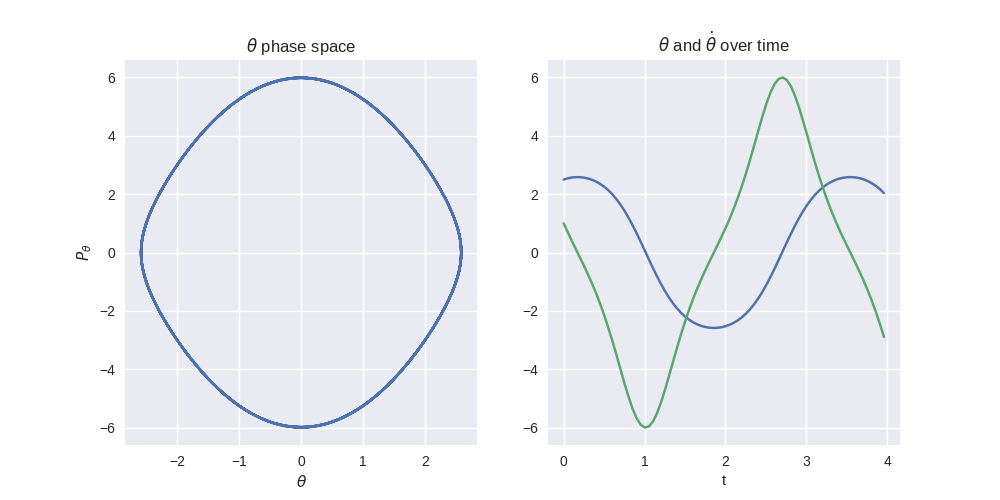
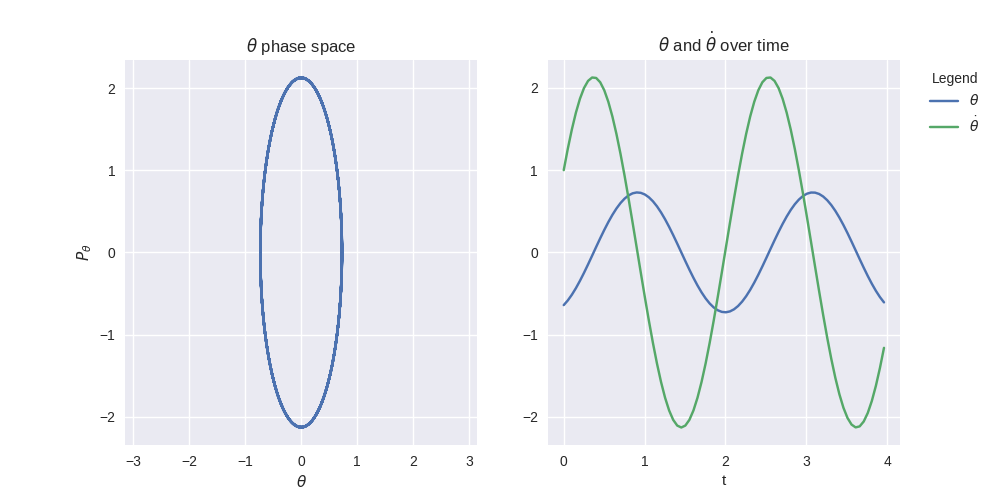
fixed phase space ranges (theta from -pi to pi). added phase space explorer script. fixed figures

diff --git a/ConstrainedPointMass/phasespace.py b/ConstrainedPointMass/phasespace.py
@@ -1,0 +1,69 @@
+import matplotlib.pyplot as plt
+from matplotlib.animation import FuncAnimation
+from scipy.integrate import odeint
+import numpy as np
+
+'''
+Phase space exploration
+'''
+
+#sets of parameters & definitions
+params1 = {"R":1, "g":9.8, "m":1, "init_theta": [2.5,1], "init_phi": [0,1], "color": "blue"}
+params2 = {"R":1, "g":9.8, "m":1, "init_theta": [2.5,1], "init_phi": [0,5], "color": "green"}
+params3 = {"R":1, "g":9.8, "m":1, "init_theta": [2.5,1], "init_phi": [0,10], "color": "red"}
+params4 = {"R":1, "g":9.8, "m":1, "init_theta": [1.5,1], "init_phi": [0,1], "color": "cyan"}
+params5 = {"R":1, "g":9.8, "m":1, "init_theta": [2.5,4], "init_phi": [0,1], "color": "magenta"}
+params5 = {"R":1, "g":9.8, "m":1, "init_theta": [2.5,-3], "init_phi": [0,1], "color": "yellow"}
+params6 = {"R":5, "g":9.8, "m":1, "init_theta": [2.5,1], "init_phi": [0,1], "color": "black"}
+params7 = {"R":1, "g":9.8, "m":5, "init_theta": [2.5,1], "init_phi": [0,1], "color": "brown"}
+
+paramstot = {1:params1, 2:params2, 3:params3, 4:params4, 5:params5, 6:params6, 7:params7}
+
+t = np.linspace(0,20,400)
+
+#equations of motion: r=R fixed, phi = phi_0 + w * t and
+def equation_theta(state, t, params):
+    theta = np.mod(state[0], 2 * np.pi) - np.pi
+    thetadot = state[1]
+    dtheta = thetadot
+    dthetadot = -(params["g"] / params["R"]) * np.sin(theta) + (params["init_phi"][1] ** 2) / 2 * np.sin(2*theta)
+    return [dtheta,dthetadot]
+
+
+###### phase space #######
+plt.style.use('seaborn')
+
+fig, ax= plt.subplots()
+
+fig.suptitle(r"$\theta$ phase space")
+ax.set_xlabel(r"$\theta$")
+ax.set_ylabel(r"$P_\theta$")
+ax.set_xlim(-np.pi , np.pi)
+
+
+i = 1
+for params in paramstot.values():
+    state = odeint(equation_theta, params["init_theta"], t, args = (params,))
+    theta = np.mod(state[:,0], 2*np.pi) - np.pi
+    thetadot = state[:,1]
+    ax.plot(theta, 2 * params["m"] * params["R"] * thetadot, color = params["color"], label = "params" + str(i))
+    i += 1
+
+ax.legend(title='Legend',loc='best')
+
+figfile = f"./ConstrainedPointMass/PhaseSpacesExpl-{len(params)}params.png"
+fig.savefig(figfile, facecolor='w', edgecolor='w',format='png')
+
+plt.show()
+
+
+
+
+
+
+
+
+
+
+
+#

diff --git a/ConstrainedPointMass/mechanics.py b/ConstrainedPointMass/mechanics.py
@@ -25,7 +25,7 @@ t = np.linspace(0,20,400)
 
 #equations of motion: r=R fixed, phi = phi_0 + w * t and
 def equation_theta(state, t, g, R, w):
-    theta = state[0]
+    theta = np.mod(state[0], 2 * np.pi) - np.pi # theta ranges from -pi to pi
     thetadot = state[1]
     dtheta = thetadot
     dthetadot = -(g/R) * np.sin(theta) + (w ** 2) / 2 * np.sin(2*theta)
@@ -33,7 +33,7 @@ def equation_theta(state, t, g, R, w):
 
 state = odeint(equation_theta, init_theta, t, args = (g,R,w))
 
-theta = state[:,0]
+theta = np.mod(state[:,0], 2 * np.pi) - np.pi
 thetadot = state[:,1]
 
 ###### phase space #######
@@ -42,10 +42,9 @@ fig, (ax1, ax2) = plt.subplots(1,2, figsize=(10, 5), dpi=100)
 ax1.set_title(r"$\theta$ phase space")
 ax1.set_xlabel(r"$\theta$")
 ax1.set_ylabel(r"$P_\theta$")
+ax1.set_xlim(-np.pi, np.pi) # theta ranges from -pi to pi
 ax2.set_title(r"$\theta$ and $\dot{\theta}$ over time")
 ax2.set_xlabel("t")
-
-ax2.legend(loc = "best")
 
 ax1.plot(theta, m * R**2 * thetadot)
 
@@ -53,6 +52,7 @@ rangeplot = int(len(t)/5)
 ax2.plot(t[0:rangeplot],theta[0:rangeplot], label  = r"$\theta$")
 ax2.plot(t[0:rangeplot],thetadot[0:rangeplot], label  = r"$\dot{\theta}$")
 
+ax2.legend(title = "Legend", loc='upper left', bbox_to_anchor = [1.05,1])
 
 ###### 3d plot ###########
 #twice as wide as it is tall
@@ -86,9 +86,8 @@ anim = FuncAnimation(fig3d, plotanim, frames  = frames, interval = 10)
 figfile = f"./ConstrainedPointMass/PhaseSpace-w={init_phi[1]}.png"
 fig.savefig(figfile, facecolor='w', edgecolor='w',format='png', dpi=100)
 
-
 anifile = f"./ConstrainedPointMass/animation-w={init_phi[1]}.gif"
-anim.save(anifile, writer='imagemagick')
+#anim.save(anifile, writer='imagemagick')
 
 plt.show()
 
